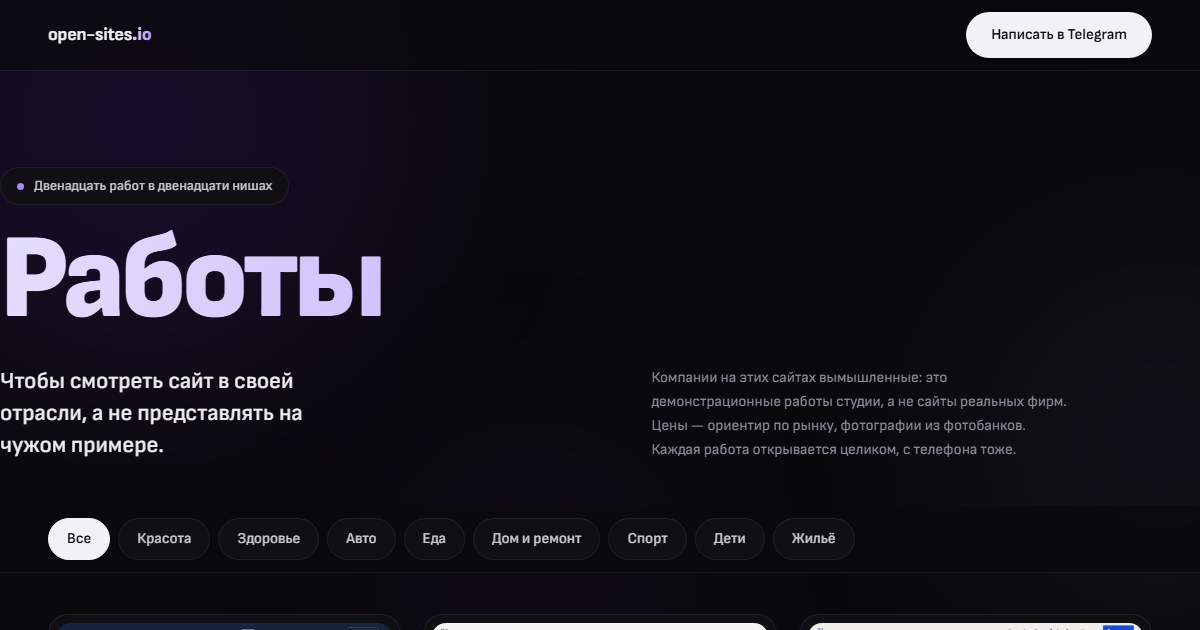
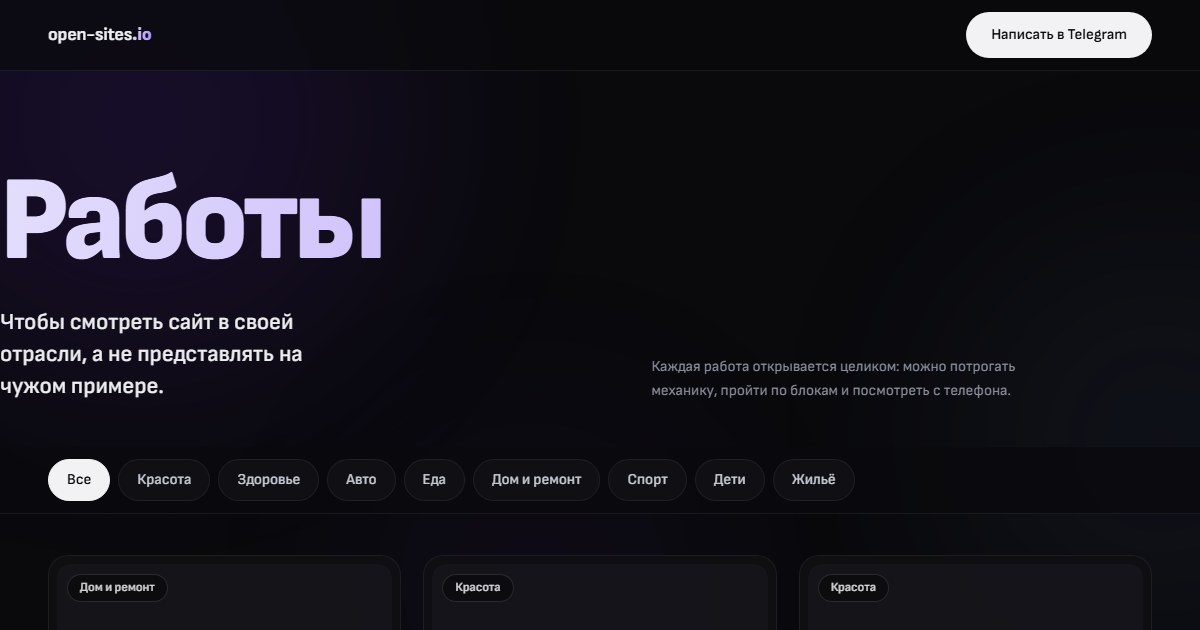
Витрина: живой сайт клиента первой карточкой, приглушённые карточки, без плашек про демо

diff --git a/index.html b/index.html
@@ -4,14 +4,14 @@
 <meta charset="utf-8">
 <meta name="viewport" content="width=device-width, initial-scale=1, viewport-fit=cover">
 <title>Работы студии open-sites.io — примеры сайтов по нишам</title>
-<meta name="description" content="Двенадцать работ студии open-sites.io — по одному сайту на нишу: барбершоп, салон волос и ногтей, стоматология, автосервис и детейлинг, зал единоборств, пекарня-кофейня с доставкой и другие. Бизнесы вымышленные.">
+<meta name="description" content="Тринадцать работ студии open-sites.io — по одному сайту на нишу: дизайн интерьера, барбершоп, салон волос и ногтей, стоматология, автосервис и детейлинг, зал единоборств и другие. Каждая открывается целиком, с телефона тоже.">
 <link rel="canonical" href="https://fr33roman.github.io/works/">
 <meta name="theme-color" content="#0A0A0D">
 <meta property="og:type" content="website">
 <meta property="og:site_name" content="open-sites.io">
 <meta property="og:locale" content="ru_RU">
 <meta property="og:title" content="Работы студии open-sites.io">
-<meta property="og:description" content="Двенадцать работ студии open-sites.io — по одному сайту на нишу: барбершоп, салон волос и ногтей, стоматология, автосервис и детейлинг, зал единоборств, пекарня-кофейня с доставкой и другие. Бизнесы вымышленные.">
+<meta property="og:description" content="Тринадцать работ студии open-sites.io — по одному сайту на нишу: дизайн интерьера, барбершоп, салон волос и ногтей, стоматология, автосервис и детейлинг, зал единоборств и другие. Каждая открывается целиком, с телефона тоже.">
 <meta property="og:url" content="https://fr33roman.github.io/works/">
 <meta property="og:image" content="https://fr33roman.github.io/works/og.jpg">
 <meta property="og:image:width" content="1200">
@@ -87,10 +87,7 @@ ul{list-style:none;padding:0}
 
 /* ——— шапка ——— */
 .head{padding:clamp(44px,8vw,104px) 0 clamp(26px,4vw,44px)}
-.tagline{display:inline-flex;align-items:center;gap:10px;padding:7px 16px;border:1px solid var(--border);
-  border-radius:100px;background:var(--surface);color:var(--silver);font-size:14px;font-weight:500}
-.tagline i{width:7px;height:7px;border-radius:50%;background:var(--violet);flex:none}
-h1{margin-top:20px;font-weight:900;font-size:clamp(52px,10vw,132px);line-height:.92;letter-spacing:-.04em;
+h1{font-weight:900;font-size:clamp(52px,10vw,132px);line-height:.92;letter-spacing:-.04em;
   background:var(--grad);-webkit-background-clip:text;background-clip:text;color:transparent}
 .head__grid{display:grid;grid-template-columns:1fr;gap:16px;margin-top:clamp(18px,2.6vw,30px)}
 @media (min-width:900px){.head__grid{grid-template-columns:minmax(0,1.1fr) minmax(0,1fr);gap:clamp(24px,4vw,64px);align-items:end}}
@@ -119,15 +116,25 @@ h1{margin-top:20px;font-weight:900;font-size:clamp(52px,10vw,132px);line-height:
 .cell{display:flex}
 .card{position:relative;display:flex;flex-direction:column;flex:1;background:var(--surface);
   border:1px solid var(--border);border-radius:var(--radius);padding:8px 8px 22px;overflow:hidden;
-  transition:transform .35s cubic-bezier(.25,.8,.3,1),border-color .35s,box-shadow .35s}
+  opacity:.88;
+  transition:transform .35s cubic-bezier(.25,.8,.3,1),border-color .35s,box-shadow .35s,opacity .35s}
 .card::before{content:"";position:absolute;inset:0 0 auto 0;height:3px;background:var(--grad);
   opacity:0;transition:opacity .3s}
-.card:hover{transform:translateY(-6px);border-color:var(--border-hi);box-shadow:0 26px 54px rgba(0,0,0,.5)}
-.card:hover::before{opacity:1}
+.card:hover,.card:focus-within,.card:active{opacity:1;transform:translateY(-6px);
+  border-color:var(--border-hi);box-shadow:0 26px 54px rgba(0,0,0,.5)}
+.card:hover::before,.card:focus-within::before{opacity:1}
 .card__shot{position:relative;border-radius:14px;overflow:hidden;background:var(--surface-2);aspect-ratio:16/10}
 .card__shot img{width:100%;height:100%;object-fit:cover;object-position:top center;
-  transition:transform .6s cubic-bezier(.25,.8,.3,1)}
+  filter:grayscale(.35) brightness(.82);
+  transition:transform .6s cubic-bezier(.25,.8,.3,1),filter .35s}
+.card:hover .card__shot img,.card:focus-within .card__shot img,.card:active .card__shot img{filter:none}
 .card:hover .card__shot img{transform:scale(1.045)}
+/* На тач-экранах наведения нет: заставлять тыкать пальцем, чтобы увидеть превью, нечестно —
+   там карточки сразу показаны полностью, приглушение остаётся только там, где есть мышь. */
+@media (hover:none){
+  .card{opacity:1}
+  .card__shot img{filter:none}
+}
 .card__tag{position:absolute;left:10px;top:10px;display:inline-flex;align-items:center;height:28px;
   padding:0 12px;border-radius:100px;background:rgba(10,10,13,.72);backdrop-filter:blur(8px);
   border:1px solid rgba(255,255,255,.14);font-size:12.5px;font-weight:600;color:var(--text)}
@@ -141,7 +148,7 @@ h1{margin-top:20px;font-weight:900;font-size:clamp(52px,10vw,132px);line-height:
   font-size:14.5px;font-weight:600;color:var(--text);
   transition:background .25s,color .25s,border-color .25s}
 .card__go svg{transition:transform .25s}
-.card:hover .card__go{background:#F2F2F4;color:#0A0A0D;border-color:#F2F2F4}
+.card:hover .card__go,.card:focus-within .card__go{background:#F2F2F4;color:#0A0A0D;border-color:#F2F2F4}
 .card:hover .card__go svg{transform:translate(2px,-2px)}
 
 /* ——— выплывание при прокрутке (только со скриптом) ——— */
@@ -153,8 +160,6 @@ h1{margin-top:20px;font-weight:900;font-size:clamp(52px,10vw,132px);line-height:
 .foot{border-top:1px solid var(--border);padding:clamp(48px,7vw,104px) 0 clamp(40px,6vw,72px)}
 .foot__big{font-size:clamp(30px,5vw,60px);font-weight:900;letter-spacing:-.03em;line-height:1.02;max-width:16ch}
 .foot__row{display:flex;flex-wrap:wrap;gap:18px;align-items:center;margin-top:30px}
-.foot__note{color:var(--muted);font-size:14.5px;line-height:1.65;max-width:76ch;margin-top:40px;
-  padding-top:24px;border-top:1px solid var(--border)}
 
 @media (prefers-reduced-motion:reduce){
   *{transition:none!important;animation:none!important}
@@ -185,13 +190,11 @@ body:has(#n-stay:checked) .cell:not([data-niche="stay"]){display:none}
 
 <main>
   <div class="wrap head">
-    <span class="tagline"><i aria-hidden="true"></i>Двенадцать работ в двенадцати нишах</span>
     <h1>Работы</h1>
     <div class="head__grid">
       <p class="head__lead">Чтобы смотреть сайт в своей отрасли, а не представлять на чужом примере.</p>
-      <p class="head__note">Компании на этих сайтах вымышленные: это демонстрационные работы студии,
-        а не сайты реальных фирм. Цены — ориентир по рынку, фотографии из фотобанков.
-        Каждая работа открывается целиком, с телефона тоже.</p>
+      <p class="head__note">Каждая работа открывается целиком: можно потрогать механику,
+        пройти по блокам и посмотреть с телефона.</p>
     </div>
   </div>
 
@@ -212,7 +215,22 @@ body:has(#n-stay:checked) .cell:not([data-niche="stay"]){display:none}
 
   <div class="wrap">
     <ul class="grid">
-      <li class="cell reveal" data-niche="beauty" style="transition-delay:0ms">
+      <li class="cell reveal" data-niche="home" style="transition-delay:0ms">
+        <a class="card" href="https://alyonaa.design" target="_blank" rel="noopener">
+          <span class="card__shot">
+            <img src="p/alyona.jpg" alt="Первый экран сайта «Alyonaa Design»"
+                 width="1080" height="675" loading="eager" decoding="async">
+            <span class="card__tag">Дом и ремонт</span>
+          </span>
+          <span class="card__body">
+            <span class="card__name">Alyonaa Design</span>
+            <span class="card__kind">дизайн интерьера, Батуми и онлайн</span>
+            <span class="card__idea">Живой сайт клиента: тарифы за квадратный метр, этапы работы, две языковые версии.</span>
+            <span class="card__go">Открыть сайт<svg width="13" height="13" viewBox="0 0 13 13" fill="none" aria-hidden="true"><path d="M3.5 9.5L9.5 3.5M4.5 3.5h5v5" stroke="currentColor" stroke-width="1.7" stroke-linecap="round" stroke-linejoin="round"/></svg></span>
+          </span>
+        </a>
+      </li>
+      <li class="cell reveal" data-niche="beauty" style="transition-delay:70ms">
         <a class="card" href="lotsman/" target="_blank" rel="noopener">
           <span class="card__shot">
             <img src="p/lotsman.jpg" alt="Первый экран сайта «Лоцман»"
@@ -227,7 +245,7 @@ body:has(#n-stay:checked) .cell:not([data-niche="stay"]){display:none}
           </span>
         </a>
       </li>
-      <li class="cell reveal" data-niche="beauty" style="transition-delay:70ms">
+      <li class="cell reveal" data-niche="beauty" style="transition-delay:140ms">
         <a class="card" href="shtil/" target="_blank" rel="noopener">
           <span class="card__shot">
             <img src="p/shtil.jpg" alt="Первый экран сайта «Штиль»"
@@ -242,11 +260,11 @@ body:has(#n-stay:checked) .cell:not([data-niche="stay"]){display:none}
           </span>
         </a>
       </li>
-      <li class="cell reveal" data-niche="health" style="transition-delay:140ms">
+      <li class="cell reveal" data-niche="health" style="transition-delay:210ms">
         <a class="card" href="tridtsat-dva/" target="_blank" rel="noopener">
           <span class="card__shot">
             <img src="p/tridtsat-dva.jpg" alt="Первый экран сайта «Тридцать два»"
-                 width="1080" height="675" loading="eager" decoding="async">
+                 width="1080" height="675" loading="lazy" decoding="async">
             <span class="card__tag">Здоровье</span>
           </span>
           <span class="card__body">
@@ -257,7 +275,7 @@ body:has(#n-stay:checked) .cell:not([data-niche="stay"]){display:none}
           </span>
         </a>
       </li>
-      <li class="cell reveal" data-niche="auto" style="transition-delay:210ms">
+      <li class="cell reveal" data-niche="auto" style="transition-delay:280ms">
         <a class="card" href="support/" target="_blank" rel="noopener">
           <span class="card__shot">
             <img src="p/support.jpg" alt="Первый экран сайта «Суппорт»"
@@ -272,7 +290,7 @@ body:has(#n-stay:checked) .cell:not([data-niche="stay"]){display:none}
           </span>
         </a>
       </li>
-      <li class="cell reveal" data-niche="sport" style="transition-delay:280ms">
+      <li class="cell reveal" data-niche="sport" style="transition-delay:350ms">
         <a class="card" href="gong/" target="_blank" rel="noopener">
           <span class="card__shot">
             <img src="p/gong.jpg" alt="Первый экран сайта «Гонг»"
@@ -403,13 +421,10 @@ body:has(#n-stay:checked) .cell:not([data-niche="stay"]){display:none}
       <a class="btn" href="https://t.me/open_sites" target="_blank" rel="noopener">Написать в Telegram</a>
       <span class="card__kind">Ответим и посмотрим вашу нишу — бесплатно.</span>
     </div>
-    <p class="foot__note">open-sites.io — студия, которая делает сайты небольшому бизнесу.
-      Работы на этой странице собраны как примеры: названия, тексты и цены придуманы, совпадения
-      с настоящими компаниями случайны. Фотографии — из бесплатных фотобанков Unsplash и Pexels.</p>
   </div>
 </footer>
 
-<script type="application/ld+json">{"@context":"https://schema.org","@type":"CollectionPage","name":"Работы студии open-sites.io","url":"https://fr33roman.github.io/works/","inLanguage":"ru","isPartOf":{"@type":"WebSite","name":"open-sites.io","url":"https://fr33roman.github.io/works/"},"about":"Примеры сайтов для малого бизнеса по нишам. Компании на демо-сайтах вымышленные.","mainEntity":{"@type":"ItemList","numberOfItems":12,"itemListElement":[{"@type":"ListItem","position":1,"name":"Лоцман — барбершоп, Батуми","url":"https://fr33roman.github.io/works/lotsman/"},{"@type":"ListItem","position":2,"name":"Штиль — салон волос и ногтей, Батуми","url":"https://fr33roman.github.io/works/shtil/"},{"@type":"ListItem","position":3,"name":"Тридцать два — стоматология, Батуми","url":"https://fr33roman.github.io/works/tridtsat-dva/"},{"@type":"ListItem","position":4,"name":"Суппорт — автосервис и детейлинг, Батуми","url":"https://fr33roman.github.io/works/support/"},{"@type":"ListItem","position":5,"name":"Гонг — зал единоборств, Батуми","url":"https://fr33roman.github.io/works/gong/"},{"@type":"ListItem","position":6,"name":"Опара — пекарня-кофейня с доставкой, Батуми","url":"https://fr33roman.github.io/works/opara/"},{"@type":"ListItem","position":7,"name":"Уровень — ремонт квартир, Батуми","url":"https://fr33roman.github.io/works/uroven/"},{"@type":"ListItem","position":8,"name":"Начисто — клининг, Батуми","url":"https://fr33roman.github.io/works/nachisto/"},{"@type":"ListItem","position":9,"name":"Кружок — детский центр, развивающие занятия","url":"https://fr33roman.github.io/works/kruzhok/"},{"@type":"ListItem","position":10,"name":"Охапка — цветочная мастерская","url":"https://fr33roman.github.io/works/ohapka/"},{"@type":"ListItem","position":11,"name":"Веранда — апартаменты у моря, Батуми","url":"https://fr33roman.github.io/works/veranda/"},{"@type":"ListItem","position":12,"name":"Ладонь — массаж, Батуми","url":"https://fr33roman.github.io/works/ladon/"}]}}</script>
+<script type="application/ld+json">{"@context":"https://schema.org","@type":"CollectionPage","name":"Работы студии open-sites.io","url":"https://fr33roman.github.io/works/","inLanguage":"ru","isPartOf":{"@type":"WebSite","name":"open-sites.io","url":"https://fr33roman.github.io/works/"},"about":"Сайты для малого бизнеса по нишам: работы студии open-sites.io.","mainEntity":{"@type":"ItemList","numberOfItems":13,"itemListElement":[{"@type":"ListItem","position":1,"name":"Alyonaa Design — дизайн интерьера, Батуми и онлайн","url":"https://alyonaa.design"},{"@type":"ListItem","position":2,"name":"Лоцман — барбершоп, Батуми","url":"https://fr33roman.github.io/works/lotsman/"},{"@type":"ListItem","position":3,"name":"Штиль — салон волос и ногтей, Батуми","url":"https://fr33roman.github.io/works/shtil/"},{"@type":"ListItem","position":4,"name":"Тридцать два — стоматология, Батуми","url":"https://fr33roman.github.io/works/tridtsat-dva/"},{"@type":"ListItem","position":5,"name":"Суппорт — автосервис и детейлинг, Батуми","url":"https://fr33roman.github.io/works/support/"},{"@type":"ListItem","position":6,"name":"Гонг — зал единоборств, Батуми","url":"https://fr33roman.github.io/works/gong/"},{"@type":"ListItem","position":7,"name":"Опара — пекарня-кофейня с доставкой, Батуми","url":"https://fr33roman.github.io/works/opara/"},{"@type":"ListItem","position":8,"name":"Уровень — ремонт квартир, Батуми","url":"https://fr33roman.github.io/works/uroven/"},{"@type":"ListItem","position":9,"name":"Начисто — клининг, Батуми","url":"https://fr33roman.github.io/works/nachisto/"},{"@type":"ListItem","position":10,"name":"Кружок — детский центр, развивающие занятия","url":"https://fr33roman.github.io/works/kruzhok/"},{"@type":"ListItem","position":11,"name":"Охапка — цветочная мастерская","url":"https://fr33roman.github.io/works/ohapka/"},{"@type":"ListItem","position":12,"name":"Веранда — апартаменты у моря, Батуми","url":"https://fr33roman.github.io/works/veranda/"},{"@type":"ListItem","position":13,"name":"Ладонь — массаж, Батуми","url":"https://fr33roman.github.io/works/ladon/"}]}}</script>
 <script>
 (function () {
   'use strict';
